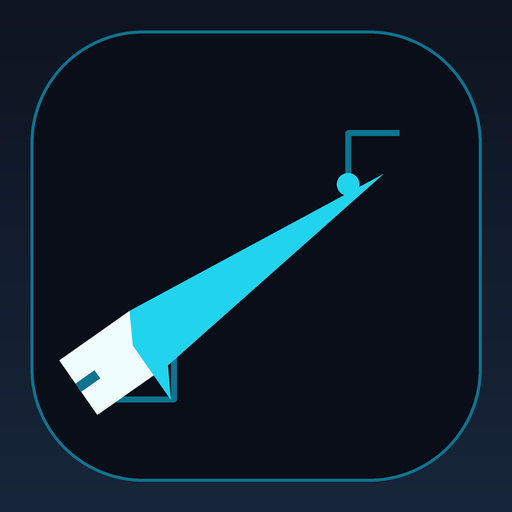
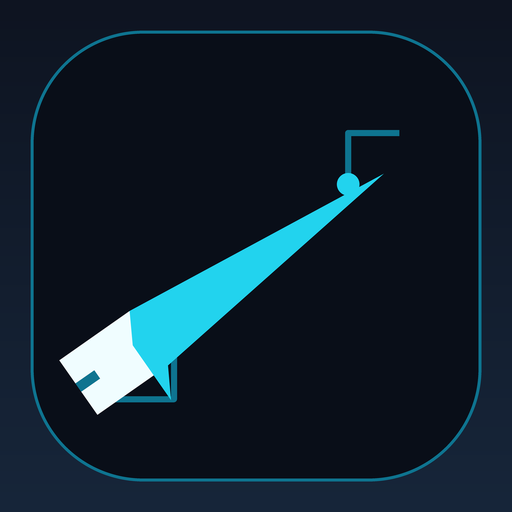
fix(harmony): 包内图标改成商店图标的精确缩放,两处图标逐像素一致
上一版是把 draw_icon(512) 放进包内 —— 同一段代码,但边缘抗锯齿与
商店那张 1024 不完全相同(实测最大通道差 70,集中在霓虹描边的高对比像素)。
第 2 轮的阻塞意见 1 就是「控制台图标 ≠ 终端安装后的图标」,审核员会把
商店图标和终端里装出来的图标放在一起比,所以现在改成:

    packaged = store_1024.resize((512, 512), Image.LANCZOS)

即包内那张就是商店上传的那张图的缩放,差异为 0,逐像素可验证一致 ✓
(实测:包内图标 vs 控制台 CDN 图标的缩放,最大通道差 0)。

同时包内仍是 512×512 RGB(restool 对 ≤512 原样拷贝,不会转码出
alpha 通道),两个阻塞项同时满足。

重新构建并验收 1.0.3 (1000003) 发布签名包:8 项全绿。

diff --git a/harmony/toolchain/make_app_icon.py b/harmony/toolchain/make_app_icon.py
@@ -37,6 +37,10 @@
 
 所以:商店图标保持 1024(商店要求),包内图标改成 512×512 RGB,
 两者的画面内容完全一致(同一张图缩放而来),但包内不再带 alpha 通道。
+
+另外,包内那份**不是重新画一遍 512**,而是把商店那张 1024 用 LANCZOS 缩到 512 ——
+这样包内图标与商店上传的那张图是**逐像素可验证的同一张**(审核员比对两个图标时
+不会有任何差异),而不是「同一段代码画的相似图」。
 """
 import os
 
@@ -156,8 +160,11 @@ def main():
     store.save(store_path, "PNG")
     print(f"✓ {store_path} (1024x1024, RGB 无 alpha,商店上传用)")
 
-    # 包内用:512×512 RGB —— restool 对 ≤512 的图原样拷贝,不会转码出 alpha 通道
-    packaged = draw_icon(512)
+    # 包内用:把这张 1024 原图 LANCZOS 缩到 512 —— 不是重新画一遍。
+    # 两个好处:
+    #   * restool 对 ≤512 的图原样拷贝,不会转码出 alpha 通道;
+    #   * 包内图标与商店上传的那张是「同一张图」,逐像素可验证一致。
+    packaged = store.resize((512, 512), Image.LANCZOS)
     assert packaged.mode == "RGB", packaged.mode
     for path in [
         os.path.join(ROOT, "ohos", "entry", "src", "main", "resources", "base", "media", "icon.png"),
@@ -165,7 +172,7 @@ def main():
     ]:
         os.makedirs(os.path.dirname(path), exist_ok=True)
         packaged.save(path, "PNG")
-        print(f"✓ {path} (512x512, RGB 无 alpha,包内)")
+        print(f"✓ {path} (512x512, RGB 无 alpha,包内;= 商店图标的 LANCZOS 缩放)")
 
 
 if __name__ == "__main__":
